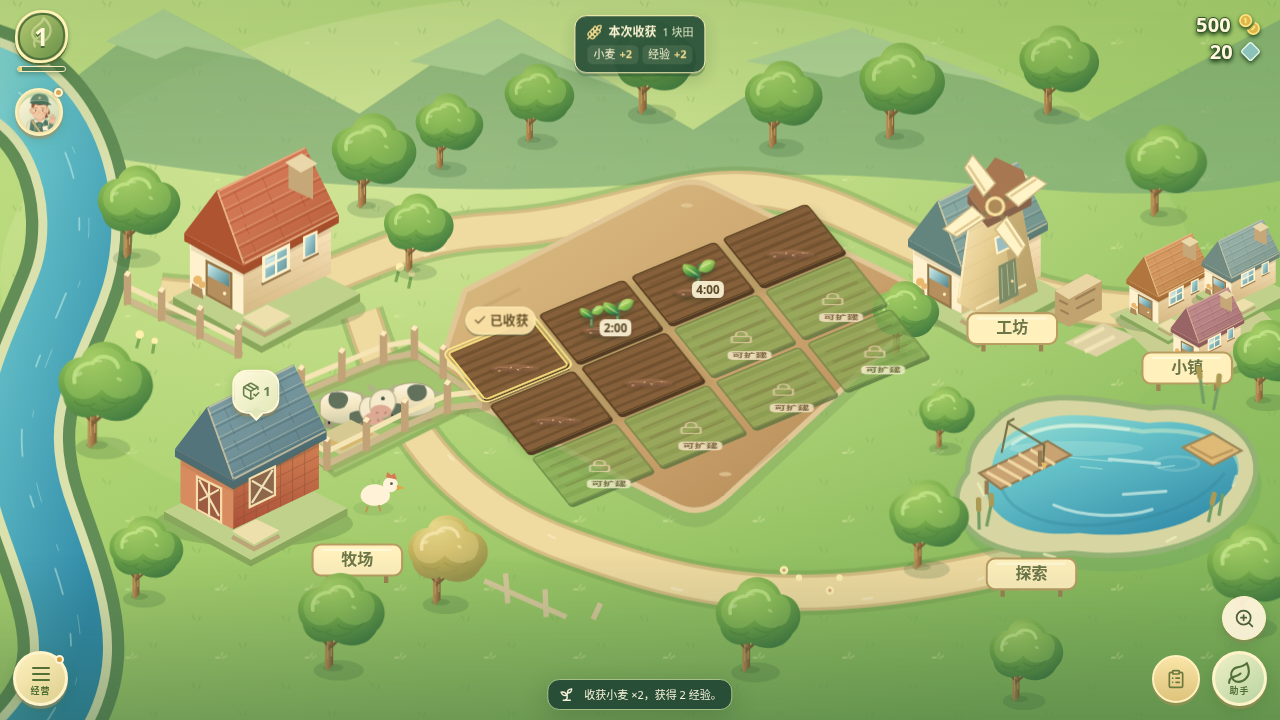
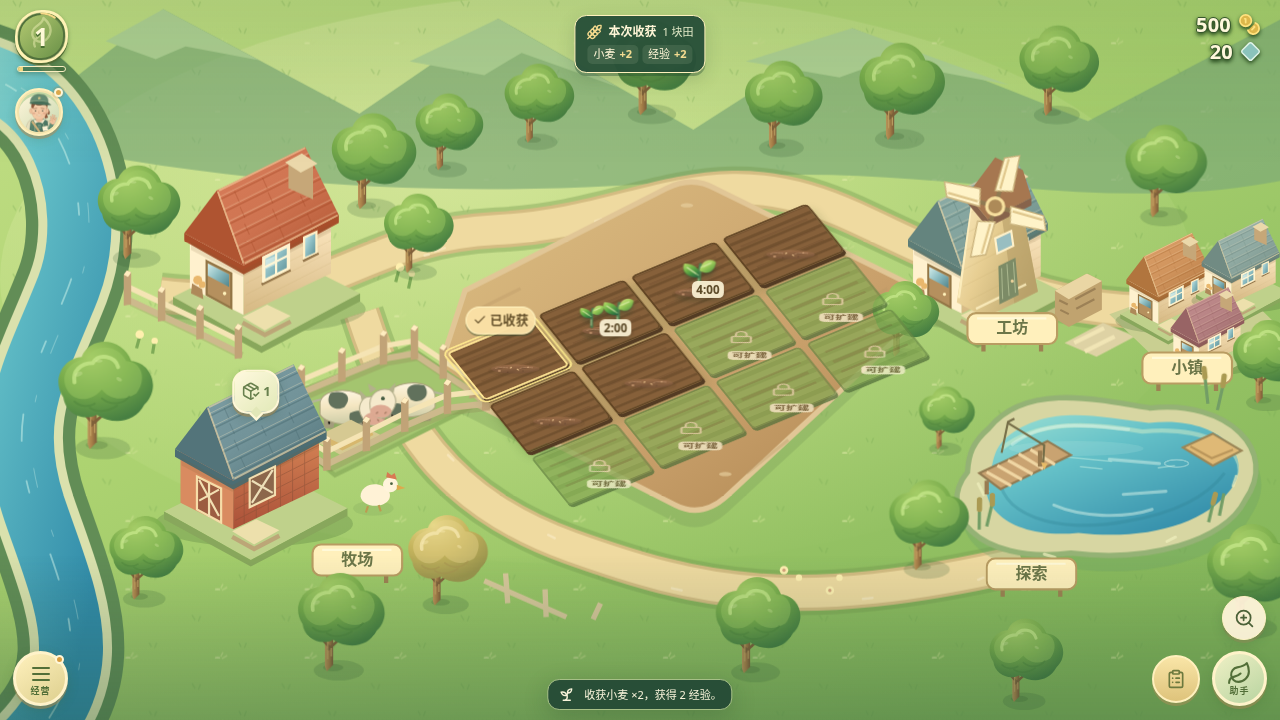
Prepare v0.16.0 with local plot feedback and stable farm camera

diff --git a/src/components/FarmViewport.tsx b/src/components/FarmViewport.tsx
@@ -228,7 +228,7 @@ export function FarmViewport({ children, className = '' }: FarmViewportProps) {
     }}>
       <div id={controlsId} className="farm-camera-options" data-camera-options hidden={!controlsOpen}>
         <button type="button" aria-label="缩小农场地图" title="缩小地图" disabled={camera.scale <= MIN_ZOOM + .001} onClick={() => zoomBy(-.2)}><Minus size={19} /></button>
-        <button type="button" className="farm-camera-reset" aria-label="复位农场地图" title="复位地图" onClick={() => updateCamera(IDENTITY)}><Scan size={19} /><span className="farm-camera-zoom">{Math.round(camera.scale * 100)}%</span></button>
+        <button type="button" className="farm-camera-reset" aria-label="复位农场地图" aria-describedby={`${controlsId}-zoom`} title="复位地图" onClick={() => updateCamera(IDENTITY)}><Scan size={19} /><span id={`${controlsId}-zoom`} className="farm-camera-zoom">{Math.round(camera.scale * 100)}%</span></button>
         <button type="button" aria-label="放大农场地图" title="放大地图" disabled={camera.scale >= MAX_ZOOM - .001} onClick={() => zoomBy(.2)}><Plus size={19} /></button>
       </div>
       <button ref={controlsToggle} type="button" className="farm-camera-toggle" data-camera-toggle aria-label={controlsOpen ? '收起地图缩放' : '展开地图缩放'} title={controlsOpen ? '收起地图缩放' : '地图缩放'} aria-expanded={controlsOpen} aria-controls={controlsId} onClick={() => setControlsOpen(open => !open)}>{controlsOpen ? <X size={19} /> : <ZoomIn size={21} />}</button>

diff --git a/docs/release-notes.md b/docs/release-notes.md
@@ -1,19 +1,17 @@
-# 田野来信 v0.15.0 · 工坊配方叠卡与生产状态
+# 田野来信 v0.16.0 · 地块原地反馈与镜头优化
 
-工坊默认收起未解锁配方，优先显示目前可用的内容。生产队列增加实际状态数量与读屏进度，横屏操作更清楚。
+连续播种、收获时，更容易辨认实际完成的地块；开合详情或改变屏幕尺寸时，镜头尽量保持正在观察的位置。
 
-- 未解锁配方以叠卡显示真实数量和下一个解锁等级，点击展开或收起；支持键盘，保持焦点，减少动态效果时关闭进入动画。全部解锁后不显示空叠卡。
-- 订单“查看来源”可自动展开并定位锁定配方，查看不会自动制作、扣除原料或交货。切换机器恢复收起。
-- 当前工坊按真实时间显示“待收取、制作中、排队中”数量。空队列不显示数量；满仓成品保留空间需求提示与禁用的收取按钮。
-- 进度条提供读屏名称、0–100 实际进度与等待说明，未开始的产品进度为 0；完成后仍需主动收取。
-- 宽屏横向队列使用原生轻度滚动吸附；较矮横屏继续使用纵向网格，减少动态效果时关闭进度插值过渡。
-- 保留 v0.14.0 的实际操作反馈、手动再做一批、完成按钮动效、真实经验与货币联动、触点圆形转场。
-- 真实天气、定位、本地 AI、资讯、行情与实际农场记录仍在独立“农场助手”界面；本版未修改这些服务与存档结构。
+- 实际成功播种、收获的地块显示原地提示，约 1.6 秒后移除。只标记成功变化的地块，取消、零变化与失败不新建成功反馈；同格再次成功操作会替换提示并重新计时。
+- 本机保存失败明确显示“未保存”；保留顶部实际数量汇总与可朗读操作结果。原地提示不挡触控、不改变地块大小，也不新增奖励或存档字段。减少动态效果时静态显示后移除。
+- 打开菜单、相关弹窗、切换页面、恢复或重置游戏会清除临时地块提示。
+- 镜头在详情面板开合、窗口尺寸变化时，按原中心对应的农场逻辑位置重算视角，并继续限制边界防止露白；复位仍回到中心 100%。
+- 点回地图会收起临时缩放控件，同时保留本次点击；直接使用控件不提前关闭。Escape 收起后恢复焦点，复位按钮可读出当前缩放比例。
+- 继续保留拖动与双指缩放后的误点击拦截，避免误收获或误进入建筑。
+- 沿用上一版工坊配方叠卡、生产状态、读屏进度、手动再做一批和轻度队列吸附。真实天气、定位、本地 AI、资讯、行情与农场记录仍在独立“农场助手”界面。
 
-## 验证与安装范围
+## 安装与验证范围
 
-规则测试和版本对应的界面检查结果在实际完成后附于发布页。使用原有固定签名，包名 com.fieldletter.farm，版本 0.15.0 / code 16，ARM64，Android 6.0+，横屏。附 APK、源码 ZIP 和 SHA256SUMS.txt。
+包名 com.fieldletter.farm，版本 0.16.0 / code 17，使用原有固定签名，仅 ARM64，Android 6.0+，横屏。附 APK、源码 ZIP、SHA256SUMS.txt。最终构建检查与公开文件复核结果将在完成后补入发布说明。
 
-界面截图与检查范围：[配方叠卡](https://github.com/schlapiadeziel-rgb/weather-farm-mobile/blob/v0.15.0/docs/workshop-recipe-stack.md)、[生产队列](https://github.com/schlapiadeziel-rgb/weather-farm-mobile/blob/v0.15.0/docs/workshop-queue-status.md)。
-
-尚未完成本版安卓真机触控、GPS、相机、语音、本地模型性能或系统覆盖安装验证。
+[本版验证范围](https://github.com/schlapiadeziel-rgb/weather-farm-mobile/blob/v0.16.0/docs/validation-v0.16.md)。尚未完成本版安卓真机触控、旋转、相机、GPS、语音、本地模型性能或系统覆盖安装验证。

diff --git a/README.md b/README.md
@@ -2,11 +2,13 @@
 
 中文横屏农场经营游戏。参考 Hay Day 的播种、喂养、库存、加工排队、交订单和路边摊循环，代码与场景美术独立原创。农田与牧场采用全屏地图，等级、货币和圆形入口悬浮在边角；田地、牧场、工坊、河塘与小镇通过道路相连。播种、收获、投喂和收取后短暂显示本次实际结果，工坊收取后可手动再做一批。工坊与牧场的待收提示跟随建筑，点击可找到有成品的机器或畜栏。农场门口可接待原创邻居，小镇经营列车访客与店铺。真实天气、本机图文 AI、官方资讯和实际农场记录全部放在独立的“农场助手”界面。
 
-[下载 Android v0.15.0 试玩版](https://github.com/schlapiadeziel-rgb/weather-farm-mobile/releases/tag/v0.15.0) · [版本与安装包](https://github.com/schlapiadeziel-rgb/weather-farm-mobile/releases) · [v0.15.0 验证范围](docs/validation-v0.15.md)
+[下载 Android v0.16.0 试玩版](https://github.com/schlapiadeziel-rgb/weather-farm-mobile/releases/tag/v0.16.0) · [版本与安装包](https://github.com/schlapiadeziel-rgb/weather-farm-mobile/releases) · [v0.16.0 验证范围](docs/validation-v0.16.md)
 
-主分支优化了镜头在详情面板开合和窗口尺寸变化时的观察中心，并在点回地图时收起缩放控件：[行为与验证](docs/camera-resize.md)。此改动尚未包含在已发布的 v0.15.0 APK 中。
+v0.16.0 优化了镜头在详情面板开合和窗口尺寸变化时的观察中心，并在点回地图时收起缩放控件：[行为与验证](docs/camera-resize.md)。
 
-主分支新增地块原地播种／收获提示：[实际画面与验证](docs/plot-action-feedback.md)。此改动尚未包含在上方已发布的 v0.15.0 APK 中。
+v0.16.0 新增地块原地播种／收获提示：[实际画面与验证](docs/plot-action-feedback.md)。
+
+![v0.16.0 正常收获后的原地与顶部反馈](docs/plot-action-feedback.png)
 
 v0.15.0 新增生产队列状态提示、读屏进度和宽屏滚动吸附：[画面与验证范围](docs/workshop-queue-status.md)。
 

diff --git a/docs/validation-v0.16.md b/docs/validation-v0.16.md
@@ -1,0 +1,13 @@
+# v0.16.0 验证范围
+
+包名 com.fieldletter.farm，版本 0.16.0 / code 17。
+
+- TypeScript/Vite 生产构建通过；331 项规则测试全部通过。
+- 在最终新版 App 构建执行 33 组界面检查：地块原地反馈 9 组、镜头与缩放读屏专项 7 组、地图入口及操作回归 17 组，全部通过，没有页面异常。
+- 覆盖三种横屏尺寸、实际成功地块、部分成功、取消和零变化、保存失败标记、同格重新计时、减少动态效果、弹窗和导航清理、中心保持与边界限制、延迟放手防误收获、真实双指手势、待收导航、满仓限制、旧存档及独立资料保留。
+- 另从空浏览器存储的新农场正常收获并核对截图，没有注入存档、库存或奖励。边界检查使用隔离测试存档，与自然截图来源分别记录。
+- 尺寸变化检查等待真实布局/ResizeObserver 与 React 输出的几何尺寸一致后读取；导航检查等待目标页面出现后判断，避免把转场中途当成最终页面。
+
[1 lines of base64/hex data omitted]
+
+本机未进行安卓真机触控、旋转、GPS、相机、语音、本地模型性能或覆盖安装验证。云端构建、公开附件完整性、固定签名、CI 载荷及上一版更新检测的实际复核结果在发布完成后附于 GitHub release；不使用本地 APK 哈希代替公开下载复核。
